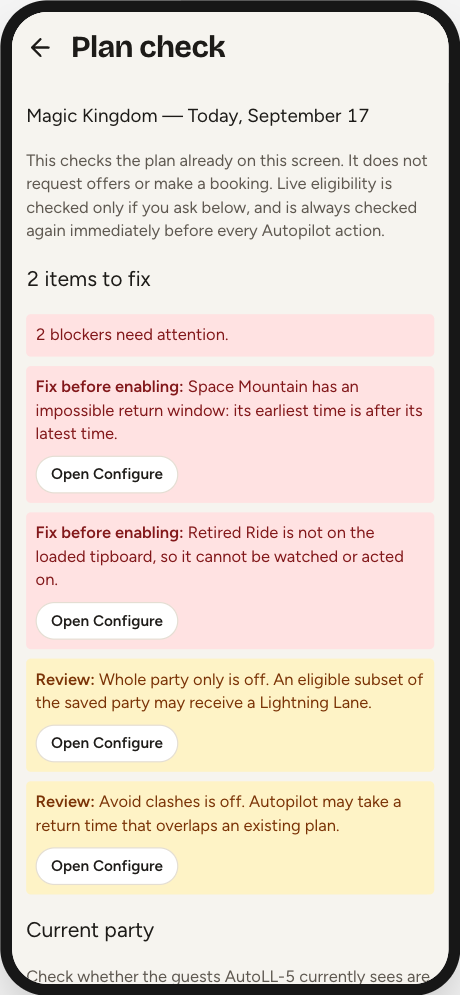
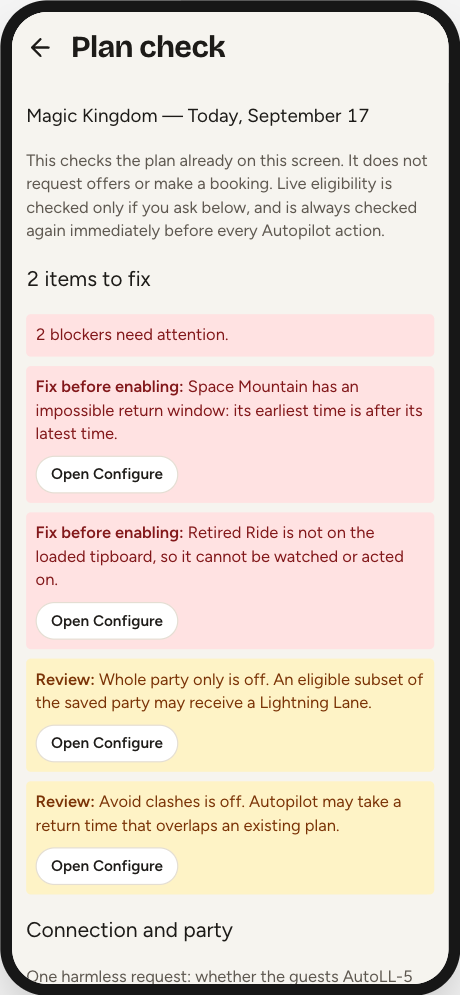
A one-tap Test connection in Plan Check (#31)
The one diagnostic was a booking by hand and a banner with a status
code, "Network request failed (403 guests)", decoded from a table in
the guide. Plan Check's party check is now Test connection: the same
harmless eligibility request, the one a refusal usually lands on, and
it says in words what came back and when, with what to do. Connected;
refused (403), with book in Disney's app and leave it for a while;
asked to slow down (429); no answer; too many requests; or failed, with
its status. The party's eligibility shows below an answer, as before.

Every outcome is caught and said on the screen rather than flashed. The
section is "Connection and party". The guide's Plan Check and "one
diagnostic" sections, the Plan Check screenshot and USABILITY.md say
so.

Changed region(s): [[0.0609, 0.9035, 0.913, 0.997]]

diff --git a/src/components/ll/screens/PlanCheck.tsx b/src/components/ll/screens/PlanCheck.tsx
@@ -9,6 +9,8 @@ import {
   checkPlan,
   planReview,
 } from '@/autopilot/plancheck';
+import { REFUSED_STATUS, THROTTLED_STATUS } from '@/autopilot/pushback';
+import { syncedParkTime } from '@/autopilot/schedule';
 import useQuarantine from '@/autopilot/useQuarantine';
 import Button from '@/components/Button';
 import Screen from '@/components/Screen';
@@ -21,7 +23,7 @@ import ExperiencesContext from '@/contexts/ExperiencesContext';
 import NavContext from '@/contexts/NavContext';
 import ParkContext from '@/contexts/ParkContext';
 import PlansContext from '@/contexts/PlansContext';
-import { formatDate } from '@/datetime';
+import { ParkTime, formatDate } from '@/datetime';
 import useDataLoader from '@/hooks/useDataLoader';
 import { RATE_LIMIT_EXCEEDED } from '@/ratelimit';
 import { loadSavedPartyIds } from '@/savedParty';
@@ -52,6 +54,92 @@ const LABEL: Record<PlanCheckLevel, string> = {
   review: 'Review',
   ready: 'Ready',
 };
+
+/**
+ * What Test connection found. It used to be a banner with a status code,
+ * "Network request failed (403 guests)", to be decoded from a table in the
+ * guide; this is said in words, with what to do next.
+ */
+type Connection =
+  | {
+      kind: 'answered' | 'refused' | 'throttled' | 'unanswered' | 'busy';
+      at: ParkTime;
+    }
+  | { kind: 'failed'; at: ParkTime; status?: number };
+
+function connectionFailure(error: unknown, at: ParkTime): Connection {
+  // The constant, not `RateLimitExceeded.name`: that is the class's name,
+  // which minification rewrites, while the thrown instance still reports
+  // "RateLimitExceeded". The app's own limiter, shared with the poller and
+  // every other tap, and it throws rather than throttling.
+  if (error instanceof Error && error.name === RATE_LIMIT_EXCEEDED) {
+    return { kind: 'busy', at };
+  }
+  const status = (error as { response?: { status?: number } } | undefined)
+    ?.response?.status;
+  if (status === REFUSED_STATUS) return { kind: 'refused', at };
+  if (status === THROTTLED_STATUS) return { kind: 'throttled', at };
+  // 0 is `fetchJson`'s word for no response at all: a timeout or no signal.
+  if (status === 0) return { kind: 'unanswered', at };
+  return { kind: 'failed', at, status };
+}
+
+const RESULT = 'mt-2 mb-0 rounded-sm p-2 text-sm';
+
+function ConnectionResult({ connection }: { connection: Connection }) {
+  const at = <Time time={connection.at} />;
+  switch (connection.kind) {
+    case 'answered':
+      return (
+        <p role="status" className={`${RESULT} ${STYLE.ready}`}>
+          Connected at {at}: Disney answered.
+        </p>
+      );
+    case 'refused':
+      return (
+        <p role="status" className={`${RESULT} ${STYLE.blocker}`}>
+          <span className="font-semibold">Refused at {at}.</span> Disney&rsquo;s
+          filter is refusing this app&rsquo;s requests (403). Book in
+          Disney&rsquo;s app for now, and leave this test for a while: knocking
+          again is what keeps an account paused.
+        </p>
+      );
+    case 'throttled':
+      return (
+        <p role="status" className={`${RESULT} ${STYLE.review}`}>
+          <span className="font-semibold">
+            Disney asked to slow down at {at}
+          </span>{' '}
+          (429). Wait a few minutes before testing again.
+        </p>
+      );
+    case 'unanswered':
+      return (
+        <p role="status" className={`${RESULT} ${STYLE.review}`}>
+          <span className="font-semibold">No answer at {at}.</span> The request
+          timed out or the signal dropped. Move, or switch Wi-Fi off, and test
+          again.
+        </p>
+      );
+    case 'busy':
+      return (
+        <p role="status" className={`${RESULT} ${STYLE.review}`}>
+          Too many requests just now. Wait a few seconds and test again.
+        </p>
+      );
+    case 'failed':
+      return (
+        <p role="status" className={`${RESULT} ${STYLE.blocker}`}>
+          <span className="font-semibold">
+            Failed at {at}
+            {connection.status ? ` (${connection.status})` : ''}.
+          </span>{' '}
+          Test again in a minute; if it keeps failing, book in Disney&rsquo;s
+          app.
+        </p>
+      );
+  }
+}
 
 /** A no-request review of the current Autopilot configuration. */
 export default function PlanCheck({
@@ -130,6 +218,7 @@ export default function PlanCheck({
   }
 
   const [party, setParty] = useState<Guests>();
+  const [connection, setConnection] = useState<Connection>();
   const [checking, setChecking] = useState(false);
   const [refreshing, setRefreshing] = useState(false);
 
@@ -162,7 +251,10 @@ export default function PlanCheck({
   }
   // A party answer is about one park and one date. This screen stays mounted
   // in the nav stack, so without this it could outlive both.
-  useEffect(() => setParty(undefined), [park.id, bookingDate]);
+  useEffect(() => {
+    setParty(undefined);
+    setConnection(undefined);
+  }, [park.id, bookingDate]);
 
   const ineligible =
     party?.ineligible.filter(g => g.ineligibleReason !== 'NOT_IN_PARTY') ?? [];
@@ -174,33 +266,23 @@ export default function PlanCheck({
   const allEligible = !!party && eligibleCount > 0 && !ineligible.length;
   const nobodyEligible = !!party && eligibleCount === 0;
 
-  function checkParty() {
+  function testConnection() {
     if (checking) return;
     setChecking(true);
-    loadData(
-      async () => {
-        // This asks only for current party eligibility, scoped to the park
-        // and date on screen. It never creates an offer and it cannot spend
-        // an entitlement.
+    loadData(async () => {
+      // One harmless request: current party eligibility, scoped to the park
+      // and date on screen. It never creates an offer and it cannot spend an
+      // entitlement. It is the call a refusal usually lands on, so an answer
+      // is the plainest sign Disney is answering this phone. Every outcome is
+      // caught and said below, rather than flashed as a status code.
+      try {
         setParty(await ll.guests(undefined, bookingDate, park));
-      },
-      {
-        // Keyed by error name, which `useDataLoader` already supports. The
-        // limiter is shared with the poller and with every other tap in the
-        // app, and it throws rather than throttling -- left unmapped this
-        // surfaced as "Unknown error occurred", which says nothing about the
-        // one thing the user can act on.
-        //
-        // The constant, not `RateLimitExceeded.name`: that is the class's name,
-        // which minification rewrites, so the key was "Kr" in the shipped
-        // bundle while the thrown instance still reported "RateLimitExceeded".
-        // The branch passed in jest and was dead in the only build anyone runs.
-        messages: {
-          [RATE_LIMIT_EXCEEDED]:
-            'Too many requests just now. Wait a few seconds and try again.',
-        },
+        setConnection({ kind: 'answered', at: syncedParkTime() });
+      } catch (error) {
+        setParty(undefined);
+        setConnection(connectionFailure(error, syncedParkTime()));
       }
-    ).finally(() => setChecking(false));
+    }).finally(() => setChecking(false));
   }
 
   return (
@@ -262,21 +344,24 @@ export default function PlanCheck({
           </li>
         ))}
       </ul>
-      <h3>Current party</h3>
+      <h3>Connection and party</h3>
       <p className="text-sm text-gray-600">
-        Check whether the guests {APP_NAME} currently sees are eligible in
-        general, at {park.name} on this date. Attraction-specific eligibility,
-        inventory, and the actual offered time can change and remain protected
-        by the final action checks.
+        One harmless request: whether the guests {APP_NAME} sees are eligible in
+        general at {park.name} on this date. It never creates an offer and
+        cannot spend an entitlement. It is the call a refusal usually lands on,
+        so an answer means Disney is answering this phone now. Attraction
+        eligibility, inventory and the offered time are still checked before
+        every action.
       </p>
       <Button
         type="small"
         className="mt-2"
         disabled={checking}
-        onClick={checkParty}
+        onClick={testConnection}
       >
-        {checking ? 'Checking…' : 'Check current party'}
+        {checking ? 'Testing…' : 'Test connection'}
       </Button>
+      {connection && <ConnectionResult connection={connection} />}
       {allEligible && (
         <p className="mt-2 rounded-sm bg-green-100 p-2 text-sm text-green-900">
           All {eligibleCount} guest{eligibleCount === 1 ? '' : 's'} in the

diff --git a/src/components/ll/screens/PlanCheck.test.tsx b/src/components/ll/screens/PlanCheck.test.tsx
@@ -3,6 +3,7 @@ import { act } from 'react';
 
 import { hm, jc } from '@/__fixtures__/ll';
 import { mk } from '@/__fixtures__/resort';
+import { RequestError } from '@/api/client';
 import { Guest, Guests } from '@/api/ll';
 import { leaseKey, quarantine } from '@/autopilot/lease';
 import { WatchTarget } from '@/autopilot/watchlist';
@@ -90,9 +91,14 @@ function setup({
 
 const tapCheck = async () => {
   await act(async () => {
-    screen.getByText('Check current party').click();
+    screen.getByText('Test connection').click();
   });
 };
+
+const failing = (status: number) =>
+  jest.fn(async (): Promise<Guests> => {
+    throw new RequestError({ ok: false, status, data: {} });
+  });
 
 function installWebLocks() {
   Object.defineProperty(navigator, 'locks', {
@@ -286,6 +292,70 @@ describe('PlanCheck', () => {
     await waitFor(() =>
       expect(screen.getByText(/eligible from/)).toBeVisible()
     );
+  });
+
+  // The one diagnostic was a booking by hand and a banner with a status code,
+  // "Network request failed (403 guests)", decoded from a table in the guide.
+  describe('Test connection', () => {
+    it('says Disney answered, and when', async () => {
+      setup({
+        guests: jest.fn(async () => ({
+          eligible: [guest('g1', 'Ana')],
+          ineligible: [],
+        })),
+      });
+      await tapCheck();
+      await waitFor(() =>
+        expect(screen.getByRole('status')).toHaveTextContent(
+          /^Connected at .+: Disney answered\.$/
+        )
+      );
+      expect(screen.getByText(/All 1 guest/)).toBeVisible();
+    });
+
+    it('says a refusal in words, with what to do', async () => {
+      setup({ guests: failing(403) });
+      await tapCheck();
+      await waitFor(() =>
+        expect(screen.getByRole('status')).toHaveTextContent(/^Refused at/)
+      );
+      expect(screen.getByRole('status')).toHaveTextContent(
+        /Book in Disney.s app for now/
+      );
+      expect(
+        screen.queryByText(/Network request failed/)
+      ).not.toBeInTheDocument();
+    });
+
+    it('says when Disney asked to slow down', async () => {
+      setup({ guests: failing(429) });
+      await tapCheck();
+      await waitFor(() =>
+        expect(screen.getByRole('status')).toHaveTextContent(
+          /Disney asked to slow down at .+ \(429\)\. Wait a few minutes/
+        )
+      );
+    });
+
+    it('tells no answer from a refusal', async () => {
+      setup({ guests: failing(0) });
+      await tapCheck();
+      await waitFor(() =>
+        expect(screen.getByRole('status')).toHaveTextContent(
+          /^No answer at .+\. The request timed out or the signal dropped/
+        )
+      );
+    });
+
+    it('names any other failure with its status', async () => {
+      setup({ guests: failing(500) });
+      await tapCheck();
+      await waitFor(() =>
+        expect(screen.getByRole('status')).toHaveTextContent(
+          /^Failed at .+ \(500\)\./
+        )
+      );
+    });
   });
 
   // The limiter is shared with the poller and throws rather than throttling.

diff --git a/docs/user-guide.html b/docs/user-guide.html
@@ -1074,9 +1074,13 @@
         Most items carry an <span class="ui">Open Configure</span> button. Items
         about the tip board carry <span class="ui">Refresh LL list</span>, one of
         only two things here that go to the network. The other is
-        <span class="ui">Check current party</span>, which asks Disney whether
-        your saved guests are generally eligible — it cannot create an offer and
-        cannot spend an entitlement.
+        <span class="ui">Test connection</span>: one request asking Disney
+        whether your saved guests are generally eligible, which cannot create an
+        offer or spend an entitlement. It says in words what came back, and
+        when — <span class="ui">Connected</span>,
+        <span class="ui">Refused</span> (403), asked to slow down (429),
+        <span class="ui">No answer</span>, or <span class="ui">Failed</span>
+        with its status — each with what to do.
       </p>
       <div class="call safe">
         <span class="call-label">What “Ready” means</span>
@@ -2051,9 +2055,12 @@
     <section id="diagnostic">
       <h3><span class="num">20</span> The one diagnostic</h3>
       <p>
-        <strong>Book a single Lightning Lane by hand and read the banner at the
-        bottom of the screen.</strong> Everything else in this part is a
-        variation on that one test.
+        <strong>Tap Test connection at the bottom of Plan Check.</strong> It
+        sends the request a refusal usually lands on, harmlessly, and says in
+        words what came back, with what to do. Booking a single Lightning Lane
+        by hand tests the rest of the way; read the banner at the bottom of the
+        screen. Everything else in this part is a variation on these two
+        tests.
       </p>
       <div class="tablewrap">
         <table class="free">

diff --git a/docs/USER-GUIDE.md b/docs/USER-GUIDE.md
@@ -289,9 +289,11 @@ Reviews ("Review:"):
 
 Most items carry an **Open Configure** button; items about the tip board carry
 **Refresh LL list**, which is one of only two things on this screen that go to
-the network. The other is **Check current party** at the bottom, which asks
-Disney whether your saved guests are generally eligible — it cannot create an
-offer and cannot spend an entitlement.
+the network. The other is **Test connection** at the bottom: one request asking
+Disney whether your saved guests are generally eligible, which cannot create an
+offer or spend an entitlement. It says in words what came back, and when:
+**Connected**, **Refused** (403), **asked to slow down** (429), **No answer**,
+or **Failed** with its status, each with what to do.
 
 > A green "Ready" means the plan is internally *consistent*, not that a
 > Lightning Lane exists. Eligibility, inventory and the offer's real return time
@@ -941,8 +943,11 @@ off in this build.
 
 ## The one diagnostic
 
-**Book a single Lightning Lane by hand and read the banner at the bottom of the
-screen.** Everything else in this section is a variation on that one test.
+**Tap Test connection at the bottom of Plan Check.** It sends the request a
+refusal usually lands on, harmlessly, and says in words what came back, with
+what to do. Booking a single Lightning Lane by hand tests the rest of the way;
+read the banner at the bottom of the screen. Everything else in this section is
+a variation on these two tests.
 
 | Banner | Meaning | What to do |
 |---|---|---|

diff --git a/docs/USABILITY.md b/docs/USABILITY.md
@@ -87,8 +87,9 @@ spinner that blocks every refresh is the providers', not a screen's.
 **Suggested by the review and not built yet**, none of them decided against:
 
 - The timeline: every name cut at 360 px, bars too small to tap, tooltips in
-  24-hour time, and no dining ([FUTURE.md](FUTURE.md) §2.1, §2.2, §2.7).
-- A one-tap "Test connection" in Plan Check.
+  24-hour time, and no dining ([FUTURE.md](FUTURE.md) §2.1, §2.2, §2.7). Being
+  made in AutoLL-3 first, as 1.8.0, since the component is shared; it arrives
+  here by merge.
 
 **Built since the review:** screen titles that match their tabs ("Times" and
 "Plans", which read "Times Guide" and "Your Plans"), and a reminder to end
@@ -103,7 +104,9 @@ puts the ride on Autopilot's list alert-only, with the existing add, and opens
 its card in Configure marked just added, so arming it stays Configure's. The LL
 tab has a row above the tabs saying how old its times are ("Updated 3 min ago",
 amber past five minutes), with a **Refresh** within reach of a thumb; the
-header keeps its own.
+header keeps its own. Plan Check's party check is a one-tap **Test
+connection**: the same harmless request, which now says in words what came
+back and when, with what to do, where it flashed a status code.
 
 **After the rehearsal's booking morning:** the booking-morning screen. The
 roadmap holds it until that morning has shown what is hard about it, and that
